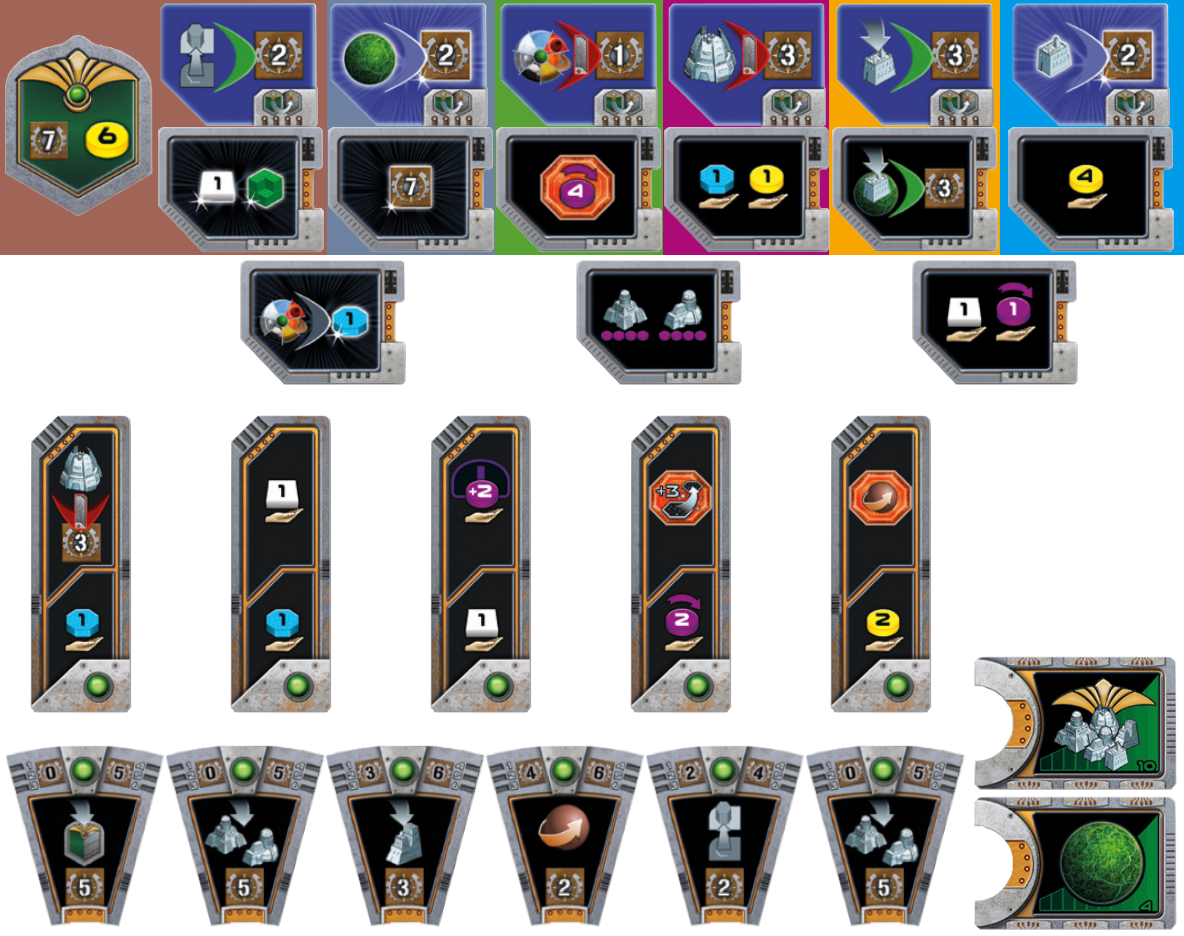
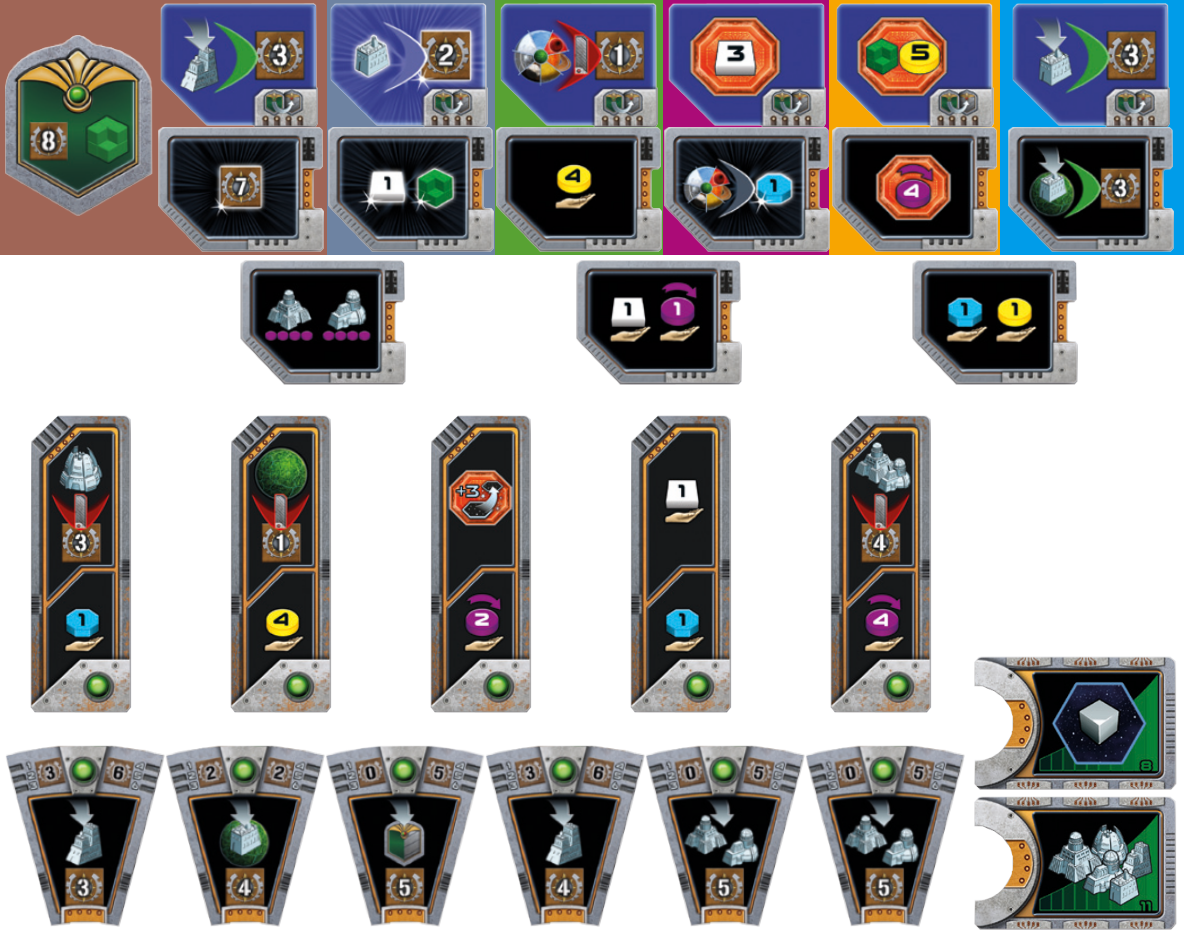
redesigned game start_method

diff --git a/gaia_project.py b/gaia_project.py
@@ -15,60 +15,40 @@ IMAGES = os.path.join(ROOT, "images")
 
 
 class GaiaProject:
-    """Class for combining all the different parts of the game.
-    """
+    """Class for combining all the different parts of the game."""
 
-    def __init__(self, player1, player2,
-                 player3=False, player4=False, automa=False):
+    def __init__(self, player_count, automa=False):
         """Create a new game of GaiaProject
 
         Args:
-            player1-4 (str): Name of the faction the corresonding player is
-                playing.
-            automa (bool): whether or not you are playing against the automa.
+            player_count (int): Amount of players.
+            automa (bool): whether or not the player is playing against the
+                automa.
         """
 
-        # more players TODO federations have 3 of each type in 3+ player games
-        self.federation_tokens = [
-            FederationToken("FEDvps.png", 2, "vp12", "grey"),
-            FederationToken("FEDqic.png", 2, ["vp8", "qic1"], "green"),
-            FederationToken("FEDore.png", 2, ["vp7", "ore2"], "green"),
-            FederationToken("FEDcre.png", 2, ["vp7", "credits6"], "green"),
-            FederationToken("FEDknw.png", 2, ["vp6", "knowledge2"], "green")
-        ]
+        self.player_count = player_count
+        self.automa = automa
+        self.players = []  # A list with all the player objects in turn order.
+        self.board_setup()
 
-        # TODO FINAL FIX THIS MESS. Factions are chosen last during setup.
-        # But this makes the setup faster for testing purposes.
-        self.setup(player1, player2, player3, player4, automa)
+    def board_setup(self):
+        """Setup all the pieces of the game."""
 
-    def setup(self, player1, player2,
-              player3=False, player4=False, automa=False):
-        """Setup all the pieces of the game
-
-        Args:
-            player1-4 (str): Name of the faction the corresonding player is
-                playing.
-        """
-
-        # A list with all the player objects in turn order.
-        self.players = []
-        self.round = 1
-
-        self.player1 = Player(player1)
-        self.players.append(self.player1)
-        if automa:
-            self.player2 = Automa(player2)
-            self.players.append(self.player2)
+        if self.automa:
+            amount = 2
         else:
-            self.player2 = Player(player2)
-            self.players.append(self.player2)
-
-        if player3:
-            self.player3 = Player(player3)
-            self.players.append(self.player3)
-        if player4:
-            self.player4 = Player(player4)
-            self.players.append(self.player4)
+            amount = 3
+        self.federation_tokens = [
+            FederationToken("FEDvps.png", amount, "vp12", "grey"),
+            FederationToken("FEDqic.png", amount, ["vp8", "qic1"], "green"),
+            FederationToken("FEDore.png", amount, ["vp7", "ore2"], "green"),
+            FederationToken(
+                "FEDcre.png", amount, ["vp7", "credits6"], "green"
+            ),
+            FederationToken(
+                "FEDknw.png", amount, ["vp6", "knowledge2"], "green"
+            )
+        ]
 
         self.research_board = Research()
         self.scoring_board = Scoring()
@@ -77,7 +57,6 @@ class GaiaProject:
         # 1. Choose first player (Against the automa, the human goes first).
         # 2. Let the last player assemble the game board (or just some final
         #    rotation of tiles) or just do it together.
-        # TODO generate the universe (first game default universe at first)
         self.create_universe()
 
         # 3. Randomly place the standard and advanced technology tiles.
@@ -94,83 +73,18 @@ class GaiaProject:
         self.scoring_board.randomise_scoring()
 
         # 6. Randomly select {amount of players} + 3 booster tiles.
-        player_count = 0
-        if player1:
-            player_count += 1
-        if player2:
-            player_count += 1
-        if player3:
-            player_count += 1
-        if player4:
-            player_count += 1
-
-        self.scoring_board.randomise_boosters(player_count)
+        self.scoring_board.randomise_boosters(self.player_count)
 
         # TESTING uncomment line below when finished. Commented because
         #   it kept changing the img file which is not necessary right now.
         # Load the setup into an image to see it more easily as a human.
         # self.visual_setup()
 
-        # TODO Let player choose faction after seeing setup.
-        # Start of the game:
-        # Choose faction (start with first player and going clockwise):
-
-        # Place players on level 0 of all research boards and check if they
-        # start on level 1 of any of them. Add the level to the player object
-        # for easy acces and insert the faction name of the player in the level
-        # object for printing.
-        for p in self.players:
-            name = p.faction.name
-
-            p.terraforming = self.research_board.terraforming.level0
-            self.research_board.terraforming.level0.players.append(name)
-
-            p.navigation = self.research_board.navigation.level0
-            self.research_board.navigation.level0.players.append(name)
-
-            p.a_i = self.research_board.a_i.level0
-            self.research_board.a_i.level0.players.append(name)
-
-            p.gaia_project = self.research_board.gaia_project.level0
-            self.research_board.gaia_project.level0.players.append(name)
-
-            p.economy = self.research_board.economy.level0
-            self.research_board.economy.level0.players.append(name)
-
-            p.science = self.research_board.science.level0
-            self.research_board.science.level0.players.append(name)
-
-            start_research = p.faction.start_research
-            if start_research:
-                levels = [
-                    p.terraforming,
-                    p.navigation,
-                    p.a_i,
-                    p.gaia_project,
-                    p.economy,
-                    p.science,
-                ]
-                for i, track in enumerate(self.research_board.tech_tracks):
-                    if track.name == start_research:
-                        current_level = levels[i]
-                        track.research(current_level, p, i)
-
-        # Place first structures (start with first player and going clockwise):
-        for player in self.players:
-            player.start_mine("first", self.universe, self.players)
-
-        for player in reversed(self.players):
-            player.start_mine("second", self.universe, self.players)
-
-        # Choose booster (start with last player and going counter-clockwise):
-        for player in reversed(self.players):
-            player.choose_booster(self.scoring_board)
-
-        # TODO Move the setup function inside the play function instead.
-        self.play()
-
     def visual_setup(self):
-        """Load setup into an image for better human readability of a setup."""
+        """Visualize the board setup.
+
+        Load setup into an image for better human readability.
+        """
 
         # Canvas with technology track backgrounds at the top.
         with Image.open(os.path.join(ROOT,
@@ -314,7 +228,102 @@ class GaiaProject:
             canvas.save("Setup.png", "png")
 
     def create_universe(self):
+        """Function for setting up the universe
+
+        TODO:
+            In the future randomise the universe.
+        """
+
         self.universe = Universe()
+
+    def player_setup(self):
+        """Initialise Player objects."""
+
+        # TODO more players ask for factions here or assign randomly.
+        # Choose faction (start with first player and going clockwise).
+        # See Faction.select_faction for available factions for human and
+        # Automa.select_faction for available factions for the Automa.
+        self.players.append(Player("Hadsch Halla"))
+
+        # If playing against the Automa, ask for the desired difficulty.
+        if self.automa:
+            difficulty_options = [
+                "Automalein",
+                "Automa",
+                "Automachtig",
+                "Ultoma",
+                "Alptrauma"
+            ]
+            print(
+                "What difficulty do you want to set the Automa to? Please type"
+                " the corresponding number."
+            )
+            for i, diff in enumerate(difficulty_options, start=1):
+                print(f"{i}. {diff}.")
+
+            while True:
+                choice = input("--> ")
+
+                if choice in [str(num + 1) for num in range(i)]:
+                    chosen_difficulty = difficulty_options[int(choice) - 1]
+                    break
+                else:
+                    print("! Please only type one of the available numbers.")
+                    continue
+
+            # Set desired difficulty.
+            self.players.append(Automa("Taklons", chosen_difficulty))
+
+        # Place players on level 0 of all research boards and check if they
+        # start on level 1 of any of them. Add the Level object to the Player
+        # object for easy acces and insert the faction name of the player in
+        # the Level.players list.
+        for p in self.players:
+            name = p.faction.name
+
+            p.terraforming = self.research_board.terraforming.level0
+            self.research_board.terraforming.level0.players.append(name)
+
+            p.navigation = self.research_board.navigation.level0
+            self.research_board.navigation.level0.players.append(name)
+
+            p.a_i = self.research_board.a_i.level0
+            self.research_board.a_i.level0.players.append(name)
+
+            p.gaia_project = self.research_board.gaia_project.level0
+            self.research_board.gaia_project.level0.players.append(name)
+
+            p.economy = self.research_board.economy.level0
+            self.research_board.economy.level0.players.append(name)
+
+            p.science = self.research_board.science.level0
+            self.research_board.science.level0.players.append(name)
+
+            start_research = p.faction.start_research
+            if start_research:
+                levels = [
+                    p.terraforming,
+                    p.navigation,
+                    p.a_i,
+                    p.gaia_project,
+                    p.economy,
+                    p.science,
+                ]
+                for i, track in enumerate(self.research_board.tech_tracks):
+                    if track.name == start_research:
+                        current_level = levels[i]
+                        track.research(current_level, p, i)
+
+        # Place first structures (start with first player and going clockwise):
+        for player in self.players:
+            player.start_mine("first", self.universe, self.players)
+
+        for player in reversed(self.players):
+            player.start_mine("second", self.universe, self.players)
+
+        # Choose booster (start with last player and going counter-clockwise):
+        for player in reversed(self.players):
+            player.choose_booster(self.scoring_board)
 
     def play(self):
         """This function will setup and allow you to start playing a game."""
@@ -368,8 +377,15 @@ if __name__ == "__main__":
     # Uncomment if files are opened.
     # open_stuff()
 
-    new_game = GaiaProject("Hadsch Halla", "Taklons", automa=True)
-    # print(new_game.universe.sector4)
-    # print(new_game.universe.sector5)
-
-    # new_game.play()  # Start a game by calling this if convenient.
+    # Start game
+    print("Gaia Project started.\n")
+    while True:
+        # TODO more players ask for amount of players here and if you'll
+        #   play against the automa.
+        player_count = 2
+        automa = True
+        new_game = GaiaProject(player_count, automa=automa)
+        print("The board has been set up. Please choose your factions.")
+        new_game.player_setup()
+        print("Factions have been chosen. The game will now start. Good luck.")
+        new_game.play()

diff --git a/player.py b/player.py
@@ -20,16 +20,7 @@ class Player:
                 TODO name all factions and possibly move the options elsewhere
 
         TODO:
-            Implement charging power when opponents builds near me.
-            Make every action choice possible to return to the action selection
-                menu in case of accidentally choosing the wrong action or
-                changing ones mind.
             Make every action print something like ACTION NAME:??
-            in resolve gain and in free actions make 1 credits say 1 credit
-                and make qic say Q.I.C. 2 Power Tokens and 1 Power Token
-                and capitalize all the income. and payments and make use re in
-                resolve gain function as well??
-            Make everything spent go through the Player.resolve_cost function.
         """
 
         self.faction = select_faction(faction.lower())()
